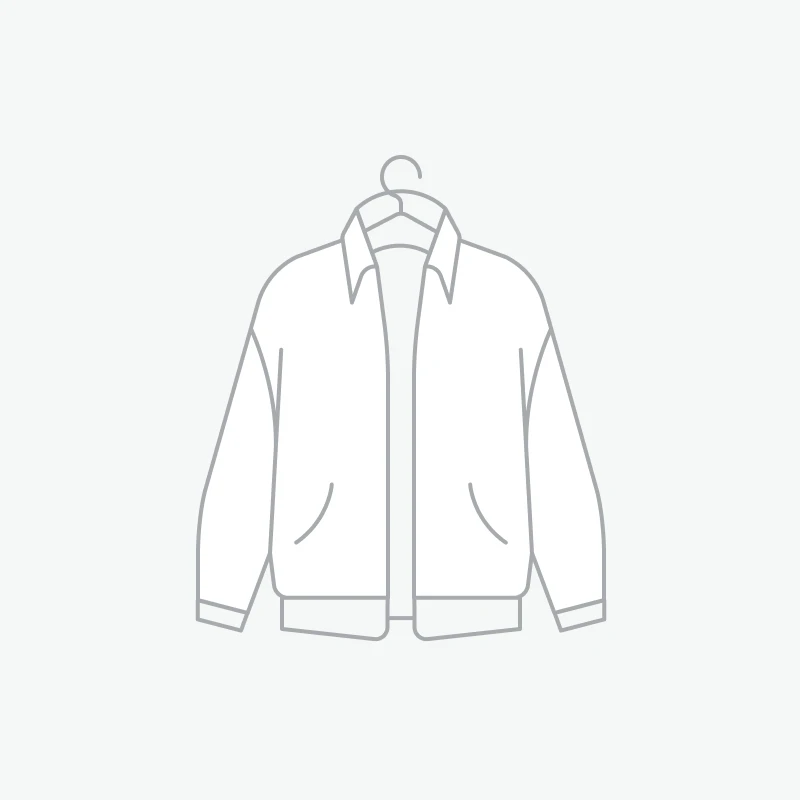
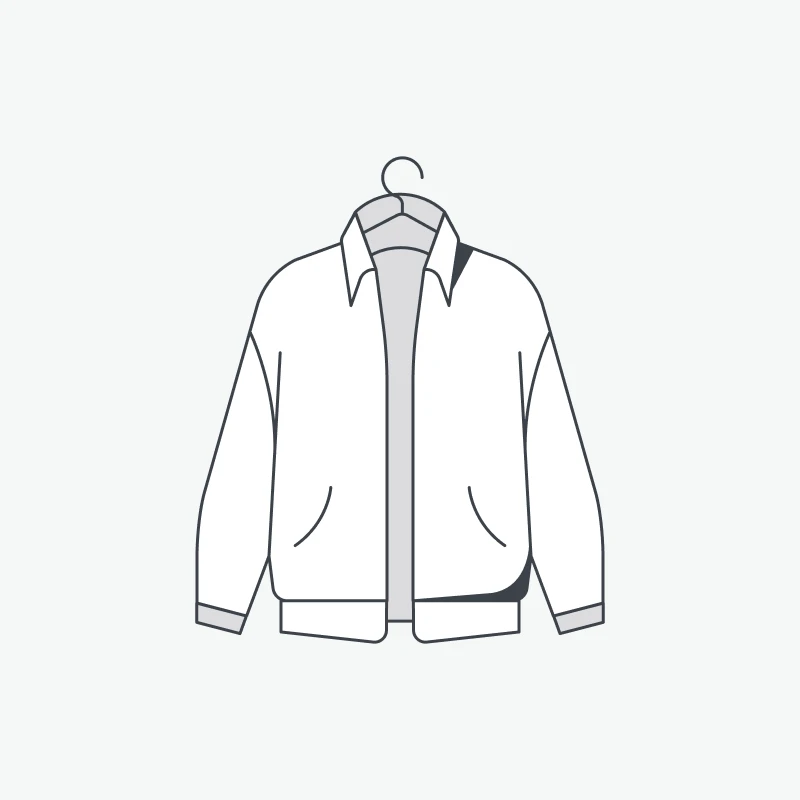
replaced and renamed images

diff --git a/woostarter/patterns/two-columns-full-width-categories.php b/woostarter/patterns/two-columns-full-width-categories.php
@@ -8,8 +8,8 @@
 <!-- wp:group {"metadata":{"name":"Two Columns Fullwidth","categories":["Columns","Gallery"],"patternName":"woostarter/two-columns-full-width-categories"},"align":"full","style":{"spacing":{"margin":{"top":"0","bottom":"0"}}},"layout":{"type":"default"}} -->
 <div class="wp-block-group alignfull" style="margin-top:0;margin-bottom:0"><!-- wp:columns {"align":"wide","className":"is-style-section-1","style":{"spacing":{"blockGap":{"top":"0","left":"0"}}}} -->
 <div class="wp-block-columns alignwide is-style-section-1"><!-- wp:column {"verticalAlignment":"center","width":"50%"} -->
-<div class="wp-block-column is-vertically-aligned-center" style="flex-basis:50%"><!-- wp:cover {"url":"<?php echo esc_url( get_template_directory_uri() ); ?>/assets/images/long-sleeve-a.webp","alt":"<?php esc_html_e('Illustration of a long sleeved shirt', 'woostarter');?>","dimRatio":20,"overlayColor":"theme-2","isUserOverlayColor":true,"isDark":false,"sizeSlug":"full","style":{"dimensions":{"aspectRatio":"1"},"elements":{"link":{"color":{"text":"var:preset|color|theme-1"}}}},"textColor":"theme-1","layout":{"type":"constrained"}} -->
-<div class="wp-block-cover is-light has-theme-1-color has-text-color has-link-color"><img class="wp-block-cover__image-background  size-full" alt="<?php esc_html_e('Illustration of a long sleeved shirt', 'woostarter');?>" src="<?php echo esc_url( get_template_directory_uri() ); ?>/assets/images/long-sleeve-a.webp" data-object-fit="cover"/><span aria-hidden="true" class="wp-block-cover__background has-theme-2-background-color has-background-dim-20 has-background-dim"></span><div class="wp-block-cover__inner-container"><!-- wp:paragraph {"align":"center","placeholder":"Write title…","fontSize":"large"} -->
+<div class="wp-block-column is-vertically-aligned-center" style="flex-basis:50%"><!-- wp:cover {"url":"<?php echo esc_url( get_template_directory_uri() ); ?>/assets/images/long-sleeve.webp","alt":"<?php esc_html_e('Illustration of a long sleeved shirt', 'woostarter');?>","dimRatio":20,"overlayColor":"theme-2","isUserOverlayColor":true,"isDark":false,"sizeSlug":"full","style":{"dimensions":{"aspectRatio":"1"},"elements":{"link":{"color":{"text":"var:preset|color|theme-1"}}}},"textColor":"theme-1","layout":{"type":"constrained"}} -->
+<div class="wp-block-cover is-light has-theme-1-color has-text-color has-link-color"><img class="wp-block-cover__image-background  size-full" alt="<?php esc_html_e('Illustration of a long sleeved shirt', 'woostarter');?>" src="<?php echo esc_url( get_template_directory_uri() ); ?>/assets/images/long-sleeve.webp" data-object-fit="cover"/><span aria-hidden="true" class="wp-block-cover__background has-theme-2-background-color has-background-dim-20 has-background-dim"></span><div class="wp-block-cover__inner-container"><!-- wp:paragraph {"align":"center","placeholder":"Write title…","fontSize":"large"} -->
 <p class="has-text-align-center has-large-font-size"><?php /* Translators: 1. is the start of a 'a' HTML element, 2. is the end of a 'a' HTML element */ 
 echo sprintf( esc_html__( '%1$sShop Women%2$s', 'woostarter' ), '<a href="' . esc_url( '#' ) . '" data-type="product_cat" data-id="19">', '</a>' ); ?></p>
 <!-- /wp:paragraph --></div></div>
@@ -17,8 +17,8 @@ echo sprintf( esc_html__( '%1$sShop Women%2$s', 'woostarter' ), '<a href="' . es
 <!-- /wp:column -->
 
 <!-- wp:column {"verticalAlignment":"bottom","width":"50%","style":{"spacing":{"padding":{"top":"0","bottom":"0","left":"0","right":"0"},"blockGap":"0"}},"layout":{"type":"default"}} -->
-<div class="wp-block-column is-vertically-aligned-bottom" style="padding-top:0;padding-right:0;padding-bottom:0;padding-left:0;flex-basis:50%"><!-- wp:cover {"url":"<?php echo esc_url( get_template_directory_uri() ); ?>/assets/images/beanie-b.webp","alt":"<?php esc_html_e('Illustration of a woollen beanie', 'woostarter');?>","dimRatio":20,"overlayColor":"theme-2","isUserOverlayColor":true,"isDark":false,"sizeSlug":"full","style":{"dimensions":{"aspectRatio":"1"},"elements":{"link":{"color":{"text":"var:preset|color|theme-1"}}}},"textColor":"theme-1","layout":{"type":"constrained"}} -->
-<div class="wp-block-cover is-light has-theme-1-color has-text-color has-link-color"><img class="wp-block-cover__image-background  size-full" alt="<?php esc_html_e('Illustration of a woollen beanie', 'woostarter');?>" src="<?php echo esc_url( get_template_directory_uri() ); ?>/assets/images/beanie-b.webp" data-object-fit="cover"/><span aria-hidden="true" class="wp-block-cover__background has-theme-2-background-color has-background-dim-20 has-background-dim"></span><div class="wp-block-cover__inner-container"><!-- wp:paragraph {"align":"center","placeholder":"Write title…","fontSize":"large"} -->
+<div class="wp-block-column is-vertically-aligned-bottom" style="padding-top:0;padding-right:0;padding-bottom:0;padding-left:0;flex-basis:50%"><!-- wp:cover {"url":"<?php echo esc_url( get_template_directory_uri() ); ?>/assets/images/beanie-a.webp","alt":"<?php esc_html_e('Illustration of a woollen beanie', 'woostarter');?>","dimRatio":20,"overlayColor":"theme-2","isUserOverlayColor":true,"isDark":false,"sizeSlug":"full","style":{"dimensions":{"aspectRatio":"1"},"elements":{"link":{"color":{"text":"var:preset|color|theme-1"}}}},"textColor":"theme-1","layout":{"type":"constrained"}} -->
+<div class="wp-block-cover is-light has-theme-1-color has-text-color has-link-color"><img class="wp-block-cover__image-background  size-full" alt="<?php esc_html_e('Illustration of a woollen beanie', 'woostarter');?>" src="<?php echo esc_url( get_template_directory_uri() ); ?>/assets/images/beanie-a.webp" data-object-fit="cover"/><span aria-hidden="true" class="wp-block-cover__background has-theme-2-background-color has-background-dim-20 has-background-dim"></span><div class="wp-block-cover__inner-container"><!-- wp:paragraph {"align":"center","placeholder":"Write title…","fontSize":"large"} -->
 <p class="has-text-align-center has-large-font-size"><?php /* Translators: 1. is the start of a 'a' HTML element, 2. is the end of a 'a' HTML element */ 
 echo sprintf( esc_html__( '%1$sShop Men%2$s', 'woostarter' ), '<a href="' . esc_url( '#' ) . '" data-type="attachment" data-id="160">', '</a>' ); ?></p>
 <!-- /wp:paragraph --></div></div>

diff --git a/woostarter/patterns/categories-on-three-columns.php b/woostarter/patterns/categories-on-three-columns.php
@@ -18,8 +18,8 @@
 <!-- /wp:column -->
 
 <!-- wp:column -->
-<div class="wp-block-column"><!-- wp:cover {"url":"<?php echo esc_url( get_template_directory_uri() ); ?>/assets/images/turtleneck-a.webp","alt":"<?php esc_attr_e( 'An illustration of a turtleneck sweater', 'woostarter' ); ?>","dimRatio":10,"customOverlayColor":"#8d8d94","isUserOverlayColor":false,"contentPosition":"bottom center","isDark":false,"sizeSlug":"full","style":{"spacing":{"padding":{"top":"var:preset|spacing|50","bottom":"var:preset|spacing|50"}},"dimensions":{"aspectRatio":"3/4"}},"layout":{"type":"constrained"}} -->
-<div class="wp-block-cover is-light has-custom-content-position is-position-bottom-center" style="padding-top:var(--wp--preset--spacing--50);padding-bottom:var(--wp--preset--spacing--50)"><img class="wp-block-cover__image-background  size-full" alt="<?php esc_attr_e( 'An illustration of a turtleneck sweater', 'woostarter' ); ?>" src="<?php echo esc_url( get_template_directory_uri() ); ?>/assets/images/turtleneck-a.webp" data-object-fit="cover"/><span aria-hidden="true" class="wp-block-cover__background has-background-dim-10 has-background-dim" style="background-color:#8d8d94"></span><div class="wp-block-cover__inner-container"><!-- wp:buttons {"layout":{"type":"flex","justifyContent":"center"}} -->
+<div class="wp-block-column"><!-- wp:cover {"url":"<?php echo esc_url( get_template_directory_uri() ); ?>/assets/images/turtleneck.webp","alt":"<?php esc_attr_e( 'An illustration of a turtleneck sweater', 'woostarter' ); ?>","dimRatio":10,"customOverlayColor":"#8d8d94","isUserOverlayColor":false,"contentPosition":"bottom center","isDark":false,"sizeSlug":"full","style":{"spacing":{"padding":{"top":"var:preset|spacing|50","bottom":"var:preset|spacing|50"}},"dimensions":{"aspectRatio":"3/4"}},"layout":{"type":"constrained"}} -->
+<div class="wp-block-cover is-light has-custom-content-position is-position-bottom-center" style="padding-top:var(--wp--preset--spacing--50);padding-bottom:var(--wp--preset--spacing--50)"><img class="wp-block-cover__image-background  size-full" alt="<?php esc_attr_e( 'An illustration of a turtleneck sweater', 'woostarter' ); ?>" src="<?php echo esc_url( get_template_directory_uri() ); ?>/assets/images/turtleneck.webp" data-object-fit="cover"/><span aria-hidden="true" class="wp-block-cover__background has-background-dim-10 has-background-dim" style="background-color:#8d8d94"></span><div class="wp-block-cover__inner-container"><!-- wp:buttons {"layout":{"type":"flex","justifyContent":"center"}} -->
 <div class="wp-block-buttons"><!-- wp:button {"backgroundColor":"theme-1","textColor":"theme-2","style":{"elements":{"link":{"color":{"text":"var:preset|color|theme-2"}}}}} -->
 <div class="wp-block-button"><a class="wp-block-button__link has-theme-2-color has-theme-1-background-color has-text-color has-background has-link-color wp-element-button"><?php esc_html_e('Shop Sweaters', 'woostarter');?></a></div>
 <!-- /wp:button --></div>